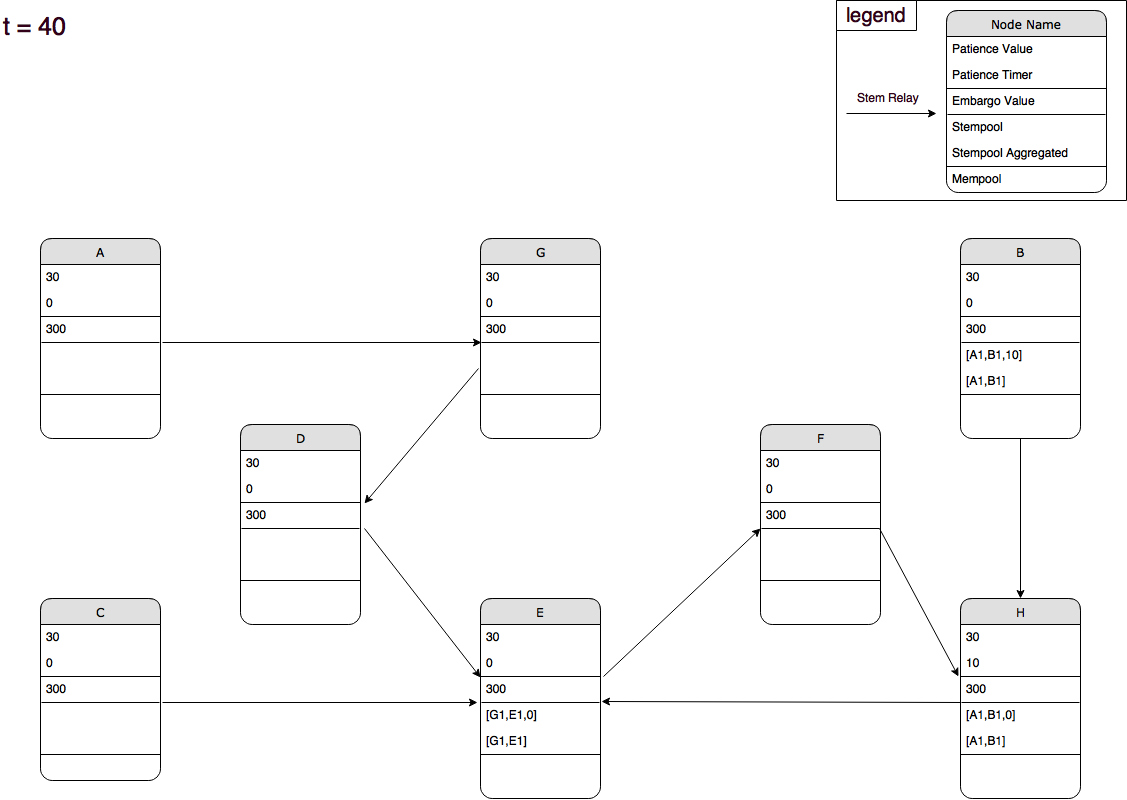
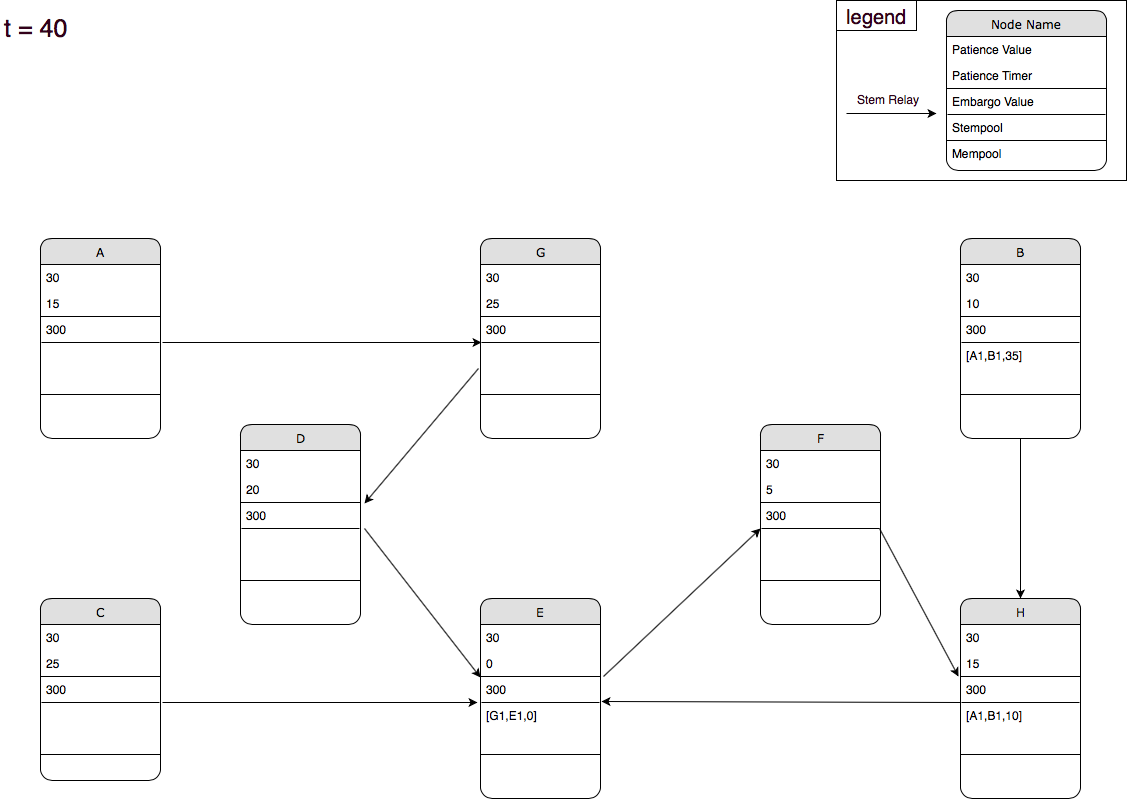
Update Dandelion simulation doc (#1034)

diff --git a/doc/dandelion/simulation.md b/doc/dandelion/simulation.md
@@ -6,15 +6,16 @@ In this scenario, we simulate a successfull aggregation but a failed transaction
 
 This document also helps visualizing all the timers in a simple way.
 
-## Initial Situation
-
-![Initial situation](images/ti.png)
-
-## T = 0
-
-A sends grins to B. B adds the transaction to its stempool and starts its patience timer.
+## T = 0 - Initial Situation
 
 ![t = 0](images/t0.png)
+
+## T = 5
+
+A sends grins to B. 
+B flips a coin and decides to add it to its stempool and starts the embargo timer for this transaction.
+
+![t = 5](images/t5.png)
 
 ## T = 10
 
@@ -24,70 +25,64 @@ B waits until he runs out of patience.
 
 ## T = 30
 
-B runs out of patience, flips a coin, broadcasts the transaction to its stem relay and starts the embargo timer for this transaction.
+B runs out of patience and broadcasts the aggregated stem transaction to its Dandelion relay H.
+H receives the stem transaction, flips a coin and decides to add it to its stempool and starts the embargo timer for this transaction.
 
 ![t = 30](images/t30.png)
-
-## T = 35
-
-B and H wait.
-
-![t = 35](images/t35.png)
 
 ## T = 40
 
 G sends grins to E.
-E adds the transaction to its stempool and starts its patience timer.
+E flips a coin and decides to add it to its stempool and starts the embargo timer for this transaction.
+B and H wait.
 
 ![t = 40](images/t40.png)
-
-## T = 50
-
-B, H and E wait.
-
-![t = 50](images/t50.png)
 
 ## T = 55
 
 B spends B1 to D.
-D adds the transaction to its stempool and starts its patience timer.
+D flips a coin and decides to add it to its stempool and starts the embargo timer for this transaction.
+H runs out of patience broadcasts the aggregated stem transaction to its Dandelion relay E.
+E receives the stem transaction, flips a coin and decides to add it to its stempool and starts the embargo timer for this transaction.
 
 ![t = 55](images/t55.png)
 
-## T = 60
-
-H runs out of patience, flips a coin, broadcasts the transaction to its stem relay and starts the embargo timer for this transaction.
-
-![t = 60](images/t60.png)
-
 ## T = 65
 
-Waiting.
+Nodes are waiting.
 
 ![t = 65](images/t65.png)
 
 ## T = 70
 
-E runs out of patience, flips a coin, broadcasts the aggregated transaction to its stem relay and starts the embargo timer for this transaction.
+E runs out of patience broadcasts the aggregated stem transaction to its Dandelion relay F.
+F receives the stem transaction, flips a coin and decides to add it to its stempool and starts the embargo timer for this transaction.
 
 ![t = 70](images/t70.png)
 
-## T = 75
+## T = 80
 
-Waiting.
+D runs out of patience, broadcasts the aggregated stem transaction to its Dandelion relay.
+E receives the stem transaction, flips a coin and decides to add it to its stempool and starts the embargo timer for this transaction. aggregates them (thus removing duplicate input/output pair B1) and starts its patience timer.
 
-![t = 75](images/t75.png)
+![t = 80](images/t80.png)
 
 ## T = 85
 
-D runs out of patience, flips a coin, broadcasts the aggregated transaction to its stem relay and starts the embargo timer for this transaction.
-E receives the stem transaction, aggregates them (thus removing duplicate input/output pair B1) and starts its patience timer.
+Nodes are waiting.
 
 ![t = 85](images/t85.png)
 
-## T = 100
+## T = 95 - Step 1
 
-F runs out of patience, flips a coin, broadcasts the aggregated transaction to all its peers (fluff in the mempool).
+F runs out of patience, broadcasts the aggregated stem transaction to its Dandelion relay H.
+H receives the transaction, flips a coin and decide to broadcast the transaction to all its peers (fluff in the mempool).
+
+![t = 95_1](images/t95_1.png)
+
+## T = 95 - Step 2
+
+All the nodes add this transaction to their mempool and remove the related transactions from their stempool.
 E receives the transaction in its mempool and reverts the state of its stempool to avoid conflicting transactions.
 
-![t = 100](images/t100.png)
+![t = 95_2](images/t95_2.png)
